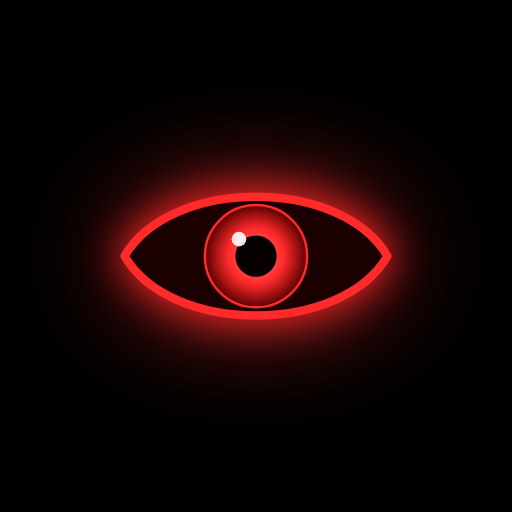
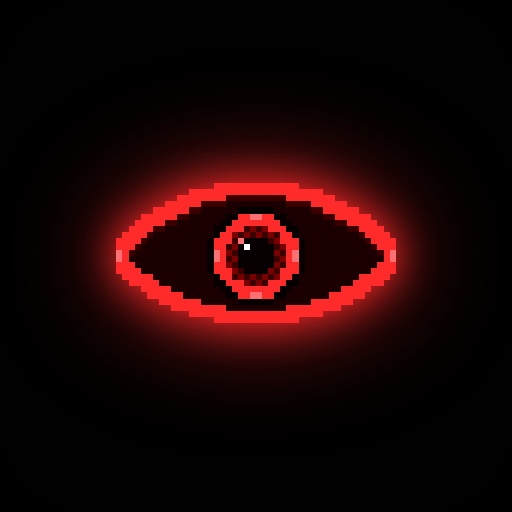
Redraw the eye as low-resolution pixel art
The smooth radial-gradient iris and hairline radial strokes clashed with
the CRT aesthetic (VT323, scanlines, noise). The eye is now a sprite on a
48x28 grid of 5-unit cells, generated by scripts/make-eye.js and written
to index.html (inline, currentColor so the mood recolours it), to
assets/img/eye.svg for the icon/OG generator and to assets/img/favicon.svg.

Design synthesised from a ten-candidate panel judged on CRT coherence,
Orwellian presence and motion: asymmetric almond with a two-cell outline
and phosphor hot-spots at the tips, dark limbal ring, bold two-cell iris
ring with cardinal ticks, ordered-dither collar, stepped pupil whose
dilating core lands on the grid in suspect mood, two-tone glint. Resting
glow tightened so the cells stay legible. Icons and the OG image are
regenerated from the same sprite.

Claude-Session: https://claude.ai/code/session_01N9ZUnRadKbmvCrqos9aZ95

Changed region(s): [[0.1875, 0.2812, 0.8125, 0.6562]]

diff --git a/scripts/make-eye.js b/scripts/make-eye.js
@@ -1,0 +1,243 @@
+#!/usr/bin/env node
+/*
+ * Generate the telescreen's eye as low-resolution pixel art.
+ *
+ * The eye is drawn on a 48x28 grid of 5x5-unit cells (viewBox 0 0 240 140) and
+ * written in three places so every rendering of it is the same sprite:
+ *   - index.html            inline <svg id="surveillance-eye"> (currentColor
+ *                           outline/ring so the mood recolours it; #pupil group
+ *                           follows the pointer; #pupil-core dilates)
+ *   - assets/img/eye.svg    standalone copy for the icon / OG generator
+ *   - assets/img/favicon.svg ring + pupil only, 16x16 cells
+ *
+ * Design (synthesised from the ten-candidate panel): asymmetric almond with a
+ * two-cell outline and phosphor hot-spots at the tips, dark limbal ring, bold
+ * two-cell iris ring with cardinal ticks, ordered-dither collar, stepped pupil
+ * with a two-tone glint. No curves, no gradients, nothing off the grid.
+ */
+'use strict';
+
+const fs = require('fs');
+const path = require('path');
+
+const ROOT = path.join(__dirname, '..');
+const CELL = 5;
+const COLS = 48;
+const ROWS = 28;
+const CX = 120; // iris centre in units — sits on a cell corner so even-diameter rings are symmetric
+const CY = 70;
+
+const PAL = {
+  outline: 'currentColor',
+  sclera: '#1a0000',
+  shadow: '#3a0000',
+  limbal: '#060000',
+  ring: 'currentColor',
+  tick: '#ff7070',
+  ditherA: '#7a0000',
+  ditherB: '#3a0000',
+  pupil: '#060000',
+  glint: '#ffffff',
+  glintSoft: '#ff7070'
+};
+
+/* ---- grid helpers -------------------------------------------------------- */
+const key = (c, r) => `${c},${r}`;
+const centre = (c, r) => [c * CELL + CELL / 2, r * CELL + CELL / 2];
+const dist = (c, r) => Math.hypot(centre(c, r)[0] - CX, centre(c, r)[1] - CY);
+
+function almondOpening() {
+  // Asymmetric lens: the upper lid sits higher than the lower one (heavier brow).
+  const open = new Set();
+  const c0 = 3;
+  const c1 = 44;
+  const upper = 10;
+  const lower = 9;
+  const centreRow = 14; // boundary between rows 13 and 14 is y=70
+  for (let c = c0; c <= c1; c++) {
+    const t = (c - c0 + 0.5) / (c1 - c0 + 1);
+    const w = Math.pow(Math.sin(Math.PI * t), 0.72);
+    const top = Math.round(centreRow - upper * w);
+    const bottom = Math.round(centreRow + lower * w);
+    for (let r = top; r < bottom; r++) open.add(key(c, r));
+  }
+  return open;
+}
+
+function dilate(set, radius) {
+  const out = new Set(set);
+  for (const k of set) {
+    const [c, r] = k.split(',').map(Number);
+    for (let dc = -radius; dc <= radius; dc++) {
+      for (let dr = -radius; dr <= radius; dr++) {
+        const cc = c + dc;
+        const rr = r + dr;
+        if (cc >= 0 && cc < COLS && rr >= 0 && rr < ROWS) out.add(key(cc, rr));
+      }
+    }
+  }
+  return out;
+}
+
+/* ---- paint ------------------------------------------------------------- */
+function paint() {
+  const open = almondOpening();
+  const outline = new Set([...dilate(open, 2)].filter((k) => !open.has(k)));
+
+  const layers = { sclera: [], shadow: [], outline: [], tips: [], limbal: [], ring: [], tick: [], ditherA: [], ditherB: [], pupil: [], glint: [], glintSoft: [] };
+
+  for (const k of open) {
+    const [c, r] = k.split(',').map(Number);
+    // one cell of shadow directly under the upper lid gives the brow weight
+    if (outline.has(key(c, r - 1))) layers.shadow.push([c, r]);
+    else layers.sclera.push([c, r]);
+  }
+  for (const k of outline) layers.outline.push(k.split(',').map(Number));
+
+  // phosphor hot-spots where the beam dwells at the almond tips
+  const outlineCols = layers.outline.map(([c]) => c);
+  const minC = Math.min(...outlineCols);
+  const maxC = Math.max(...outlineCols);
+  for (const r of [13, 14]) {
+    layers.tips.push([minC, r]);
+    layers.tips.push([maxC, r]);
+  }
+
+  // iris rings by cell-centre distance from (CX, CY)
+  for (let c = 0; c < COLS; c++) {
+    for (let r = 0; r < ROWS; r++) {
+      const d = dist(c, r);
+      if (d >= 40) continue;
+      if (d >= 35) layers.limbal.push([c, r]);
+      else if (d >= 25) layers.ring.push([c, r]);
+      else if (d >= 15) ((c + r) % 2 === 0 ? layers.ditherA : layers.ditherB).push([c, r]);
+      else layers.pupil.push([c, r]);
+    }
+  }
+  // cardinal ticks on the bright ring (two cells each, since the centre is on a corner)
+  for (const c of [23, 24]) { layers.tick.push([c, 7]); layers.tick.push([c, 20]); }
+  for (const r of [13, 14]) { layers.tick.push([17, r]); layers.tick.push([30, r]); }
+  // two-tone glint: a white cell inside the pupil's upper-left edge, a soft cell beyond it
+  layers.glint.push([22, 12]);
+  layers.glintSoft.push([21, 11]);
+
+  return { layers, open };
+}
+
+/* ---- emit -------------------------------------------------------------- */
+function runs(cells) {
+  // merge horizontal runs of cells into single rects
+  const byRow = new Map();
+  for (const [c, r] of cells) {
+    if (!byRow.has(r)) byRow.set(r, new Set());
+    byRow.get(r).add(c);
+  }
+  const rects = [];
+  for (const [r, cols] of [...byRow.entries()].sort((a, b) => a[0] - b[0])) {
+    const sorted = [...cols].sort((a, b) => a - b);
+    let start = sorted[0];
+    let prev = sorted[0];
+    for (let i = 1; i <= sorted.length; i++) {
+      if (sorted[i] === prev + 1) { prev = sorted[i]; continue; }
+      rects.push([start, r, prev - start + 1]);
+      start = sorted[i];
+      prev = sorted[i];
+    }
+  }
+  return rects;
+}
+
+function pathFor(cells) {
+  return runs(cells).map(([c, r, w]) => `M${c * CELL} ${r * CELL}h${w * CELL}v${CELL}h${-w * CELL}z`).join('');
+}
+
+function layer(cells, fill, extra = '') {
+  if (!cells.length) return '';
+  return `<path fill="${fill}" d="${pathFor(cells)}"${extra}/>`;
+}
+
+function octagon(cx, cy, apothem) {
+  // regular octagon: circumradius = apothem / cos(22.5deg) stays inside the resting pupil disc
+  const pts = [];
+  for (let i = 0; i < 8; i++) {
+    const a = Math.PI / 8 + (i * Math.PI) / 4;
+    const R = apothem / Math.cos(Math.PI / 8);
+    pts.push(`${(cx + R * Math.cos(a)).toFixed(2)},${(cy + R * Math.sin(a)).toFixed(2)}`);
+  }
+  return pts.join(' ');
+}
+
+function buildEye({ inline }) {
+  const { layers, open } = paint();
+  const color = (name) => (inline ? PAL[name] : PAL[name] === 'currentColor' ? '#ff2a2a' : PAL[name]);
+  const ids = inline ? { root: ' id="surveillance-eye"', clip: 'eye-opening', pupil: ' id="pupil"', core: ' id="pupil-core"' }
+    : { root: '', clip: 'eye-opening-static', pupil: '', core: '' };
+
+  const parts = [
+    `<svg${ids.root} xmlns="http://www.w3.org/2000/svg" viewBox="0 0 ${COLS * CELL} ${ROWS * CELL}" aria-hidden="true" focusable="false" shape-rendering="crispEdges">`,
+    `<defs><clipPath id="${ids.clip}"><path d="${pathFor([...open].map((k) => k.split(',').map(Number)))}"/></clipPath></defs>`,
+    layer(layers.sclera, color('sclera')),
+    layer(layers.shadow, color('shadow')),
+    layer(layers.outline, color('outline')),
+    layer(layers.tips, color('tick')),
+    `<g clip-path="url(#${ids.clip})"><g${ids.pupil}>`,
+    layer(layers.limbal, color('limbal')),
+    layer(layers.ring, color('ring')),
+    layer(layers.tick, color('tick')),
+    layer(layers.ditherA, color('ditherA')),
+    layer(layers.ditherB, color('ditherB')),
+    layer(layers.pupil, color('pupil')),
+    // the dilating core hides inside the resting pupil and grows to exactly 8 cells (40 units) at 1.45x
+    `<polygon${ids.core} fill="${color('pupil')}" points="${octagon(CX, CY, 40 / 1.45 / 2)}"/>`,
+    layer(layers.glint, color('glint')),
+    layer(layers.glintSoft, color('glintSoft')),
+    '</g></g>',
+    '</svg>'
+  ];
+  return parts.filter(Boolean).join('\n');
+}
+
+function buildFavicon() {
+  // 16x16 cells of 4 units: ring + collar + pupil + glint, no almond (it would not survive 16 px)
+  const S = 4;
+  const cx = 32;
+  const cy = 32;
+  const cells = { ring: [], ditherA: [], ditherB: [], pupil: [] };
+  for (let c = 0; c < 16; c++) {
+    for (let r = 0; r < 16; r++) {
+      const d = Math.hypot(c * S + S / 2 - cx, r * S + S / 2 - cy);
+      if (d >= 28) continue;
+      if (d >= 20) cells.ring.push([c, r]);
+      else if (d >= 12) ((c + r) % 2 === 0 ? cells.ditherA : cells.ditherB).push([c, r]);
+      else cells.pupil.push([c, r]);
+    }
+  }
+  const p = (list) => list.map(([c, r]) => `M${c * S} ${r * S}h${S}v${S}h${-S}z`).join('');
+  return [
+    '<svg xmlns="http://www.w3.org/2000/svg" viewBox="0 0 64 64" shape-rendering="crispEdges">',
+    '<rect width="64" height="64" fill="#020202"/>',
+    `<path fill="#ff2a2a" d="${p(cells.ring)}"/>`,
+    `<path fill="#7a0000" d="${p(cells.ditherA)}"/>`,
+    `<path fill="#3a0000" d="${p(cells.ditherB)}"/>`,
+    `<path fill="#060000" d="${p(cells.pupil)}"/>`,
+    '<path fill="#ffffff" d="M24 24h4v4h-4z"/>',
+    '</svg>',
+    ''
+  ].join('\n');
+}
+
+function main() {
+  const inlineSvg = buildEye({ inline: true }).replace(' xmlns="http://www.w3.org/2000/svg"', '');
+  const indexPath = path.join(ROOT, 'index.html');
+  const html = fs.readFileSync(indexPath, 'utf8');
+  const re = /<svg id="surveillance-eye"[\s\S]*?<\/svg>/;
+  if (!re.test(html)) throw new Error('index.html: <svg id="surveillance-eye"> not found');
+  const indented = inlineSvg.split('\n').map((line, i) => (i === 0 ? line : `                        ${line}`)).join('\n');
+  fs.writeFileSync(indexPath, html.replace(re, indented));
+  fs.writeFileSync(path.join(ROOT, 'assets/img/eye.svg'), buildEye({ inline: false }) + '\n');
+  fs.writeFileSync(path.join(ROOT, 'assets/img/favicon.svg'), buildFavicon());
+  process.stdout.write(`eye written: index.html (${inlineSvg.length} B inline), assets/img/eye.svg, assets/img/favicon.svg\n`);
+}
+
+if (require.main === module) main();
+module.exports = { buildEye, buildFavicon };

diff --git a/index.html b/index.html
@@ -67,46 +67,24 @@
         <main id="main-content" class="content" tabindex="0" aria-label="Ana terminal ekranı">
             <div class="stage">
                 <div class="eye-wrap">
-                    <svg id="surveillance-eye" viewBox="0 0 240 140" aria-hidden="true" focusable="false">
-                        <defs>
-                            <radialGradient id="iris-grad" cx="50%" cy="50%" r="50%">
-                                <stop offset="0" stop-color="#ff7070"/>
-                                <stop offset="0.55" stop-color="#ff2a2a"/>
-                                <stop offset="1" stop-color="#5a0000"/>
-                            </radialGradient>
-                            <clipPath id="eye-clip">
-                                <path d="M12 70 C 50 5, 190 5, 228 70 C 190 135, 50 135, 12 70 Z"/>
-                            </clipPath>
-                        </defs>
-                        <path d="M12 70 C 50 5, 190 5, 228 70 C 190 135, 50 135, 12 70 Z" fill="rgba(20,0,0,0.65)" stroke="currentColor" stroke-width="5" stroke-linejoin="round"/>
-                        <g clip-path="url(#eye-clip)">
-                            <g id="pupil">
-                                <circle cx="120" cy="70" r="42" fill="url(#iris-grad)"/>
-                                <g stroke="#3a0000" stroke-width="1.3" opacity="0.6">
-                                    <line x1="120" y1="30" x2="120" y2="52"/>
-                                    <line x1="120" y1="30" x2="120" y2="52" transform="rotate(22.5 120 70)"/>
-                                    <line x1="120" y1="30" x2="120" y2="52" transform="rotate(45 120 70)"/>
-                                    <line x1="120" y1="30" x2="120" y2="52" transform="rotate(67.5 120 70)"/>
-                                    <line x1="120" y1="30" x2="120" y2="52" transform="rotate(90 120 70)"/>
-                                    <line x1="120" y1="30" x2="120" y2="52" transform="rotate(112.5 120 70)"/>
-                                    <line x1="120" y1="30" x2="120" y2="52" transform="rotate(135 120 70)"/>
-                                    <line x1="120" y1="30" x2="120" y2="52" transform="rotate(157.5 120 70)"/>
-                                    <line x1="120" y1="30" x2="120" y2="52" transform="rotate(180 120 70)"/>
-                                    <line x1="120" y1="30" x2="120" y2="52" transform="rotate(202.5 120 70)"/>
-                                    <line x1="120" y1="30" x2="120" y2="52" transform="rotate(225 120 70)"/>
-                                    <line x1="120" y1="30" x2="120" y2="52" transform="rotate(247.5 120 70)"/>
-                                    <line x1="120" y1="30" x2="120" y2="52" transform="rotate(270 120 70)"/>
-                                    <line x1="120" y1="30" x2="120" y2="52" transform="rotate(292.5 120 70)"/>
-                                    <line x1="120" y1="30" x2="120" y2="52" transform="rotate(315 120 70)"/>
-                                    <line x1="120" y1="30" x2="120" y2="52" transform="rotate(337.5 120 70)"/>
-                                </g>
-                                <circle cx="120" cy="70" r="42" fill="none" stroke="currentColor" stroke-width="2" opacity="0.85"/>
-                                <circle id="pupil-core" cx="120" cy="70" r="17" fill="#060000"/>
-                                <circle cx="106" cy="56" r="6" fill="#ffffff" opacity="0.85"/>
-                                <circle cx="132" cy="84" r="2.5" fill="#ffffff" opacity="0.45"/>
-                            </g>
-                        </g>
-                    </svg>
+                    <svg id="surveillance-eye" viewBox="0 0 240 140" aria-hidden="true" focusable="false" shape-rendering="crispEdges">
+                        <defs><clipPath id="eye-opening"><path d="M95 20h50v5h-50zM75 25h90v5h-90zM65 30h110v5h-110zM55 35h130v5h-130zM45 40h150v5h-150zM35 45h170v5h-170zM30 50h180v5h-180zM25 55h190v5h-190zM20 60h200v5h-200zM15 65h210v5h-210zM15 70h210v5h-210zM20 75h200v5h-200zM25 80h190v5h-190zM35 85h170v5h-170zM40 90h160v5h-160zM50 95h140v5h-140zM60 100h120v5h-120zM75 105h90v5h-90zM95 110h50v5h-50z"/></clipPath></defs>
+                        <path fill="#1a0000" d="M95 25h50v5h-50zM75 30h90v5h-90zM65 35h110v5h-110zM55 40h130v5h-130zM45 45h150v5h-150zM35 50h170v5h-170zM30 55h180v5h-180zM25 60h190v5h-190zM20 65h200v5h-200zM15 70h210v5h-210zM20 75h200v5h-200zM25 80h190v5h-190zM35 85h170v5h-170zM40 90h160v5h-160zM50 95h140v5h-140zM60 100h120v5h-120zM75 105h90v5h-90zM95 110h50v5h-50z"/>
+                        <path fill="#3a0000" d="M95 20h50v5h-50zM75 25h20v5h-20zM145 25h20v5h-20zM65 30h10v5h-10zM165 30h10v5h-10zM55 35h10v5h-10zM175 35h10v5h-10zM45 40h10v5h-10zM185 40h10v5h-10zM35 45h10v5h-10zM195 45h10v5h-10zM30 50h5v5h-5zM205 50h5v5h-5zM25 55h5v5h-5zM210 55h5v5h-5zM20 60h5v5h-5zM215 60h5v5h-5zM15 65h5v5h-5zM220 65h5v5h-5z"/>
+                        <path fill="currentColor" d="M85 10h70v5h-70zM65 15h110v5h-110zM55 20h40v5h-40zM145 20h40v5h-40zM45 25h30v5h-30zM165 25h30v5h-30zM35 30h30v5h-30zM175 30h30v5h-30zM25 35h30v5h-30zM185 35h30v5h-30zM20 40h25v5h-25zM195 40h25v5h-25zM15 45h20v5h-20zM205 45h20v5h-20zM10 50h20v5h-20zM210 50h20v5h-20zM5 55h20v5h-20zM215 55h20v5h-20zM5 60h15v5h-15zM220 60h15v5h-15zM5 65h10v5h-10zM225 65h10v5h-10zM5 70h10v5h-10zM225 70h10v5h-10zM5 75h15v5h-15zM220 75h15v5h-15zM5 80h20v5h-20zM215 80h20v5h-20zM10 85h25v5h-25zM205 85h25v5h-25zM15 90h25v5h-25zM200 90h25v5h-25zM25 95h25v5h-25zM190 95h25v5h-25zM30 100h30v5h-30zM180 100h30v5h-30zM40 105h35v5h-35zM165 105h35v5h-35zM50 110h45v5h-45zM145 110h45v5h-45zM65 115h110v5h-110zM85 120h70v5h-70z"/>
+                        <path fill="#ff7070" d="M5 65h5v5h-5zM230 65h5v5h-5zM5 70h5v5h-5zM230 70h5v5h-5z"/>
+                        <g clip-path="url(#eye-opening)"><g id="pupil">
+                        <path fill="#060000" d="M105 30h30v5h-30zM95 35h10v5h-10zM135 35h10v5h-10zM90 40h10v5h-10zM140 40h10v5h-10zM85 45h10v5h-10zM145 45h10v5h-10zM85 50h5v5h-5zM150 50h5v5h-5zM80 55h5v5h-5zM155 55h5v5h-5zM80 60h5v5h-5zM155 60h5v5h-5zM80 65h5v5h-5zM155 65h5v5h-5zM80 70h5v5h-5zM155 70h5v5h-5zM80 75h5v5h-5zM155 75h5v5h-5zM80 80h5v5h-5zM155 80h5v5h-5zM85 85h5v5h-5zM150 85h5v5h-5zM85 90h10v5h-10zM145 90h10v5h-10zM90 95h10v5h-10zM140 95h10v5h-10zM95 100h10v5h-10zM135 100h10v5h-10zM105 105h30v5h-30z"/>
+                        <path fill="currentColor" d="M105 35h30v5h-30zM100 40h40v5h-40zM95 45h15v5h-15zM130 45h15v5h-15zM90 50h10v5h-10zM140 50h10v5h-10zM85 55h15v5h-15zM140 55h15v5h-15zM85 60h10v5h-10zM145 60h10v5h-10zM85 65h10v5h-10zM145 65h10v5h-10zM85 70h10v5h-10zM145 70h10v5h-10zM85 75h10v5h-10zM145 75h10v5h-10zM85 80h15v5h-15zM140 80h15v5h-15zM90 85h10v5h-10zM140 85h10v5h-10zM95 90h15v5h-15zM130 90h15v5h-15zM100 95h40v5h-40zM105 100h30v5h-30z"/>
+                        <path fill="#ff7070" d="M115 35h10v5h-10zM85 65h5v5h-5zM150 65h5v5h-5zM85 70h5v5h-5zM150 70h5v5h-5zM115 100h10v5h-10z"/>
+                        <path fill="#7a0000" d="M115 45h5v5h-5zM125 45h5v5h-5zM100 50h5v5h-5zM110 50h5v5h-5zM120 50h5v5h-5zM130 50h5v5h-5zM105 55h5v5h-5zM135 55h5v5h-5zM100 60h5v5h-5zM140 60h5v5h-5zM95 65h5v5h-5zM135 65h5v5h-5zM100 70h5v5h-5zM140 70h5v5h-5zM95 75h5v5h-5zM135 75h5v5h-5zM100 80h5v5h-5zM130 80h5v5h-5zM105 85h5v5h-5zM115 85h5v5h-5zM125 85h5v5h-5zM135 85h5v5h-5zM110 90h5v5h-5zM120 90h5v5h-5z"/>
+                        <path fill="#3a0000" d="M110 45h5v5h-5zM120 45h5v5h-5zM105 50h5v5h-5zM115 50h5v5h-5zM125 50h5v5h-5zM135 50h5v5h-5zM100 55h5v5h-5zM130 55h5v5h-5zM95 60h5v5h-5zM135 60h5v5h-5zM100 65h5v5h-5zM140 65h5v5h-5zM95 70h5v5h-5zM135 70h5v5h-5zM100 75h5v5h-5zM140 75h5v5h-5zM105 80h5v5h-5zM135 80h5v5h-5zM100 85h5v5h-5zM110 85h5v5h-5zM120 85h5v5h-5zM130 85h5v5h-5zM115 90h5v5h-5zM125 90h5v5h-5z"/>
+                        <path fill="#060000" d="M110 55h20v5h-20zM105 60h30v5h-30zM105 65h30v5h-30zM105 70h30v5h-30zM105 75h30v5h-30zM110 80h20v5h-20z"/>
+                        <polygon id="pupil-core" fill="#060000" points="133.79,75.71 125.71,83.79 114.29,83.79 106.21,75.71 106.21,64.29 114.29,56.21 125.71,56.21 133.79,64.29"/>
+                        <path fill="#ffffff" d="M110 60h5v5h-5z"/>
+                        <path fill="#ff7070" d="M105 55h5v5h-5z"/>
+                        </g></g>
+                        </svg>
                 </div>
                 <div class="subtitle">
                     <span>&gt; </span><span id="typed-text"></span><span class="blinking-cursor" aria-hidden="true">_</span>

diff --git a/scripts/make-images.js b/scripts/make-images.js
@@ -15,22 +15,13 @@ const { createServer } = require('./serve');
 const ROOT = path.join(__dirname, '..');
 const OUT = path.join(ROOT, 'assets', 'img');
 
-const EYE = (size, pad) => `
-  <svg xmlns="http://www.w3.org/2000/svg" viewBox="0 0 240 140" width="${size - pad * 2}" height="${(size - pad * 2) * 140 / 240}">
-    <defs>
-      <radialGradient id="g" cx="50%" cy="50%" r="50%">
-        <stop offset="0" stop-color="#ff7070"/><stop offset="0.55" stop-color="#ff2a2a"/><stop offset="1" stop-color="#5a0000"/>
-      </radialGradient>
-      <clipPath id="c"><path d="M12 70 C 50 5, 190 5, 228 70 C 190 135, 50 135, 12 70 Z"/></clipPath>
-    </defs>
-    <path d="M12 70 C 50 5, 190 5, 228 70 C 190 135, 50 135, 12 70 Z" fill="#1a0000" stroke="#ff2a2a" stroke-width="7" stroke-linejoin="round"/>
-    <g clip-path="url(#c)">
-      <circle cx="120" cy="70" r="42" fill="url(#g)"/>
-      <circle cx="120" cy="70" r="42" fill="none" stroke="#ff2a2a" stroke-width="2"/>
-      <circle cx="120" cy="70" r="17" fill="#060000"/>
-      <circle cx="106" cy="56" r="6" fill="#fff" opacity="0.9"/>
-    </g>
-  </svg>`;
+// The eye artwork is generated by scripts/make-eye.js into assets/img/eye.svg (same sprite as the page).
+const EYE_SVG = fs.readFileSync(path.join(ROOT, 'assets', 'img', 'eye.svg'), 'utf8');
+const EYE = (size, pad) => {
+  const w = size - pad * 2;
+  const h = Math.round((w * 140) / 240);
+  return EYE_SVG.replace('<svg ', `<svg width="${w}" height="${h}" `);
+};
 
 function iconPage(size, pad, radius) {
   return `<!doctype html><html><head><meta charset="utf-8"><style>

diff --git a/assets/css/styles.css b/assets/css/styles.css
@@ -27,8 +27,8 @@
   --kb-h: 0px;          /* measured on-screen keyboard height (JS) */
   --ticker-h: 1.85rem;
   --eye-color: #ff2a2a;
-  --eye-glow-a: 10px;
-  --eye-glow-b: 25px;
+  --eye-glow-a: 7px;   /* tight bloom keeps the sprite's cells legible */
+  --eye-glow-b: 20px;
   --eye-pulse: 5s;
   color-scheme: dark;
 }
